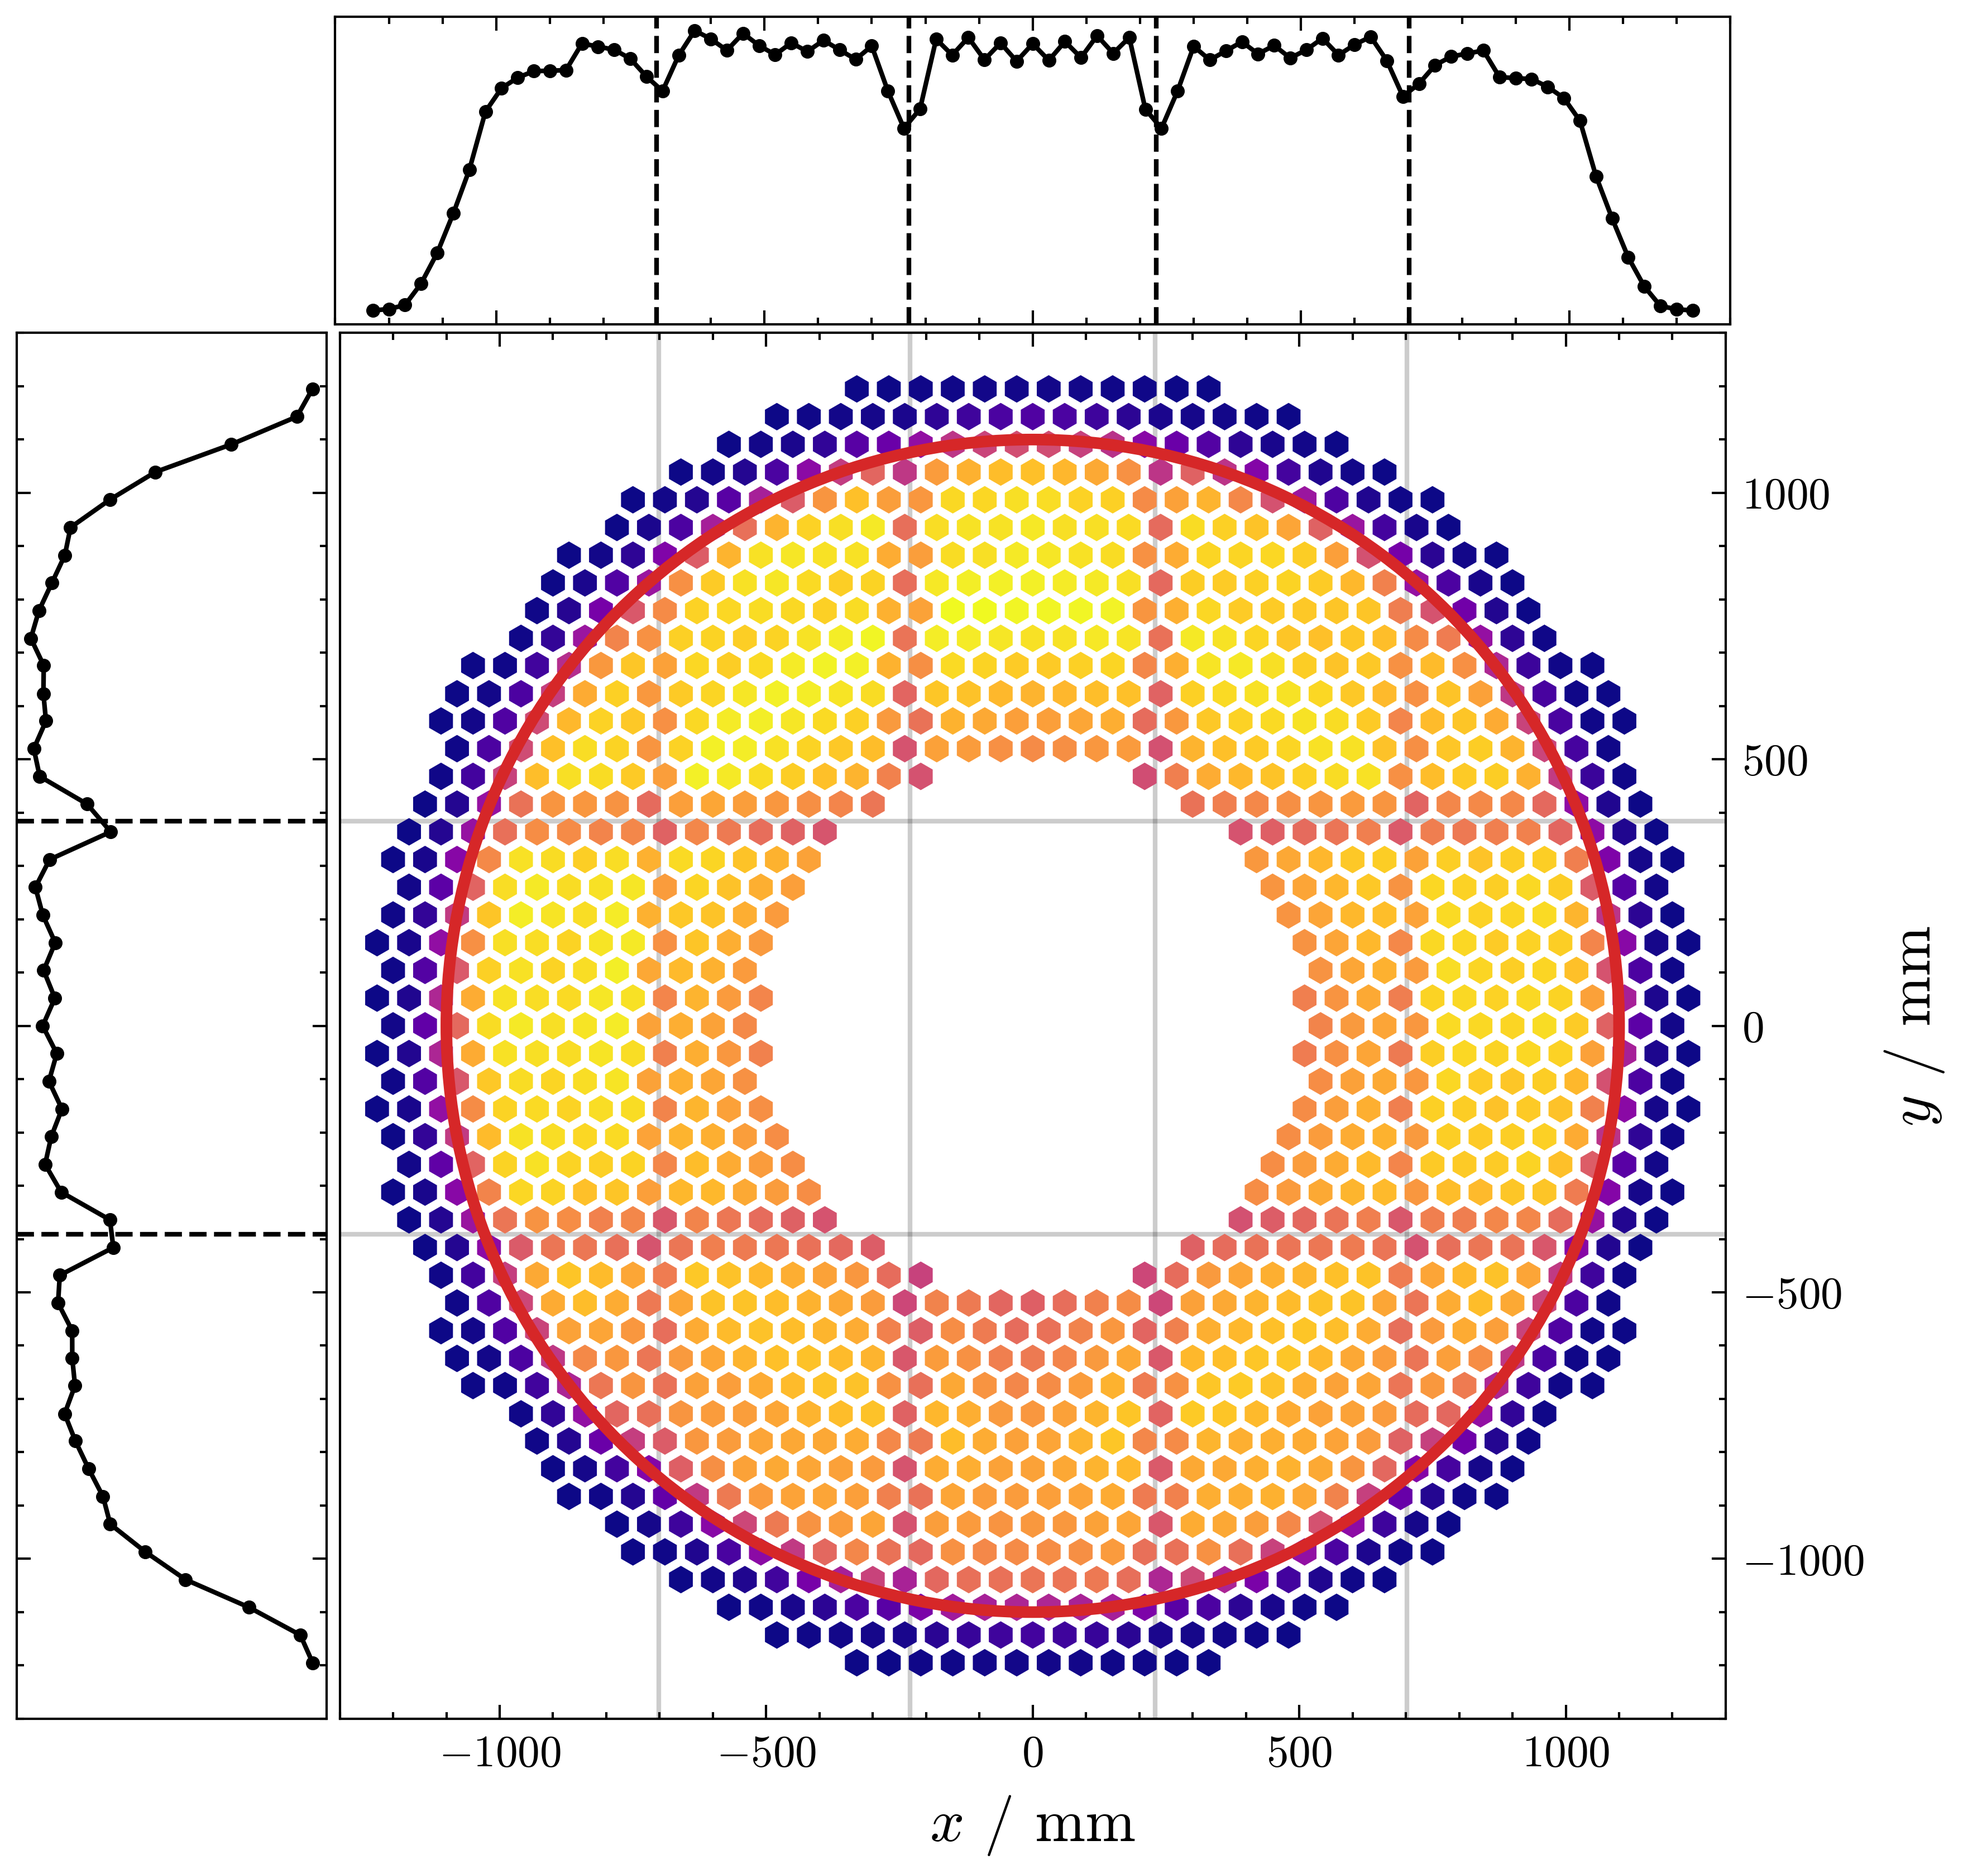
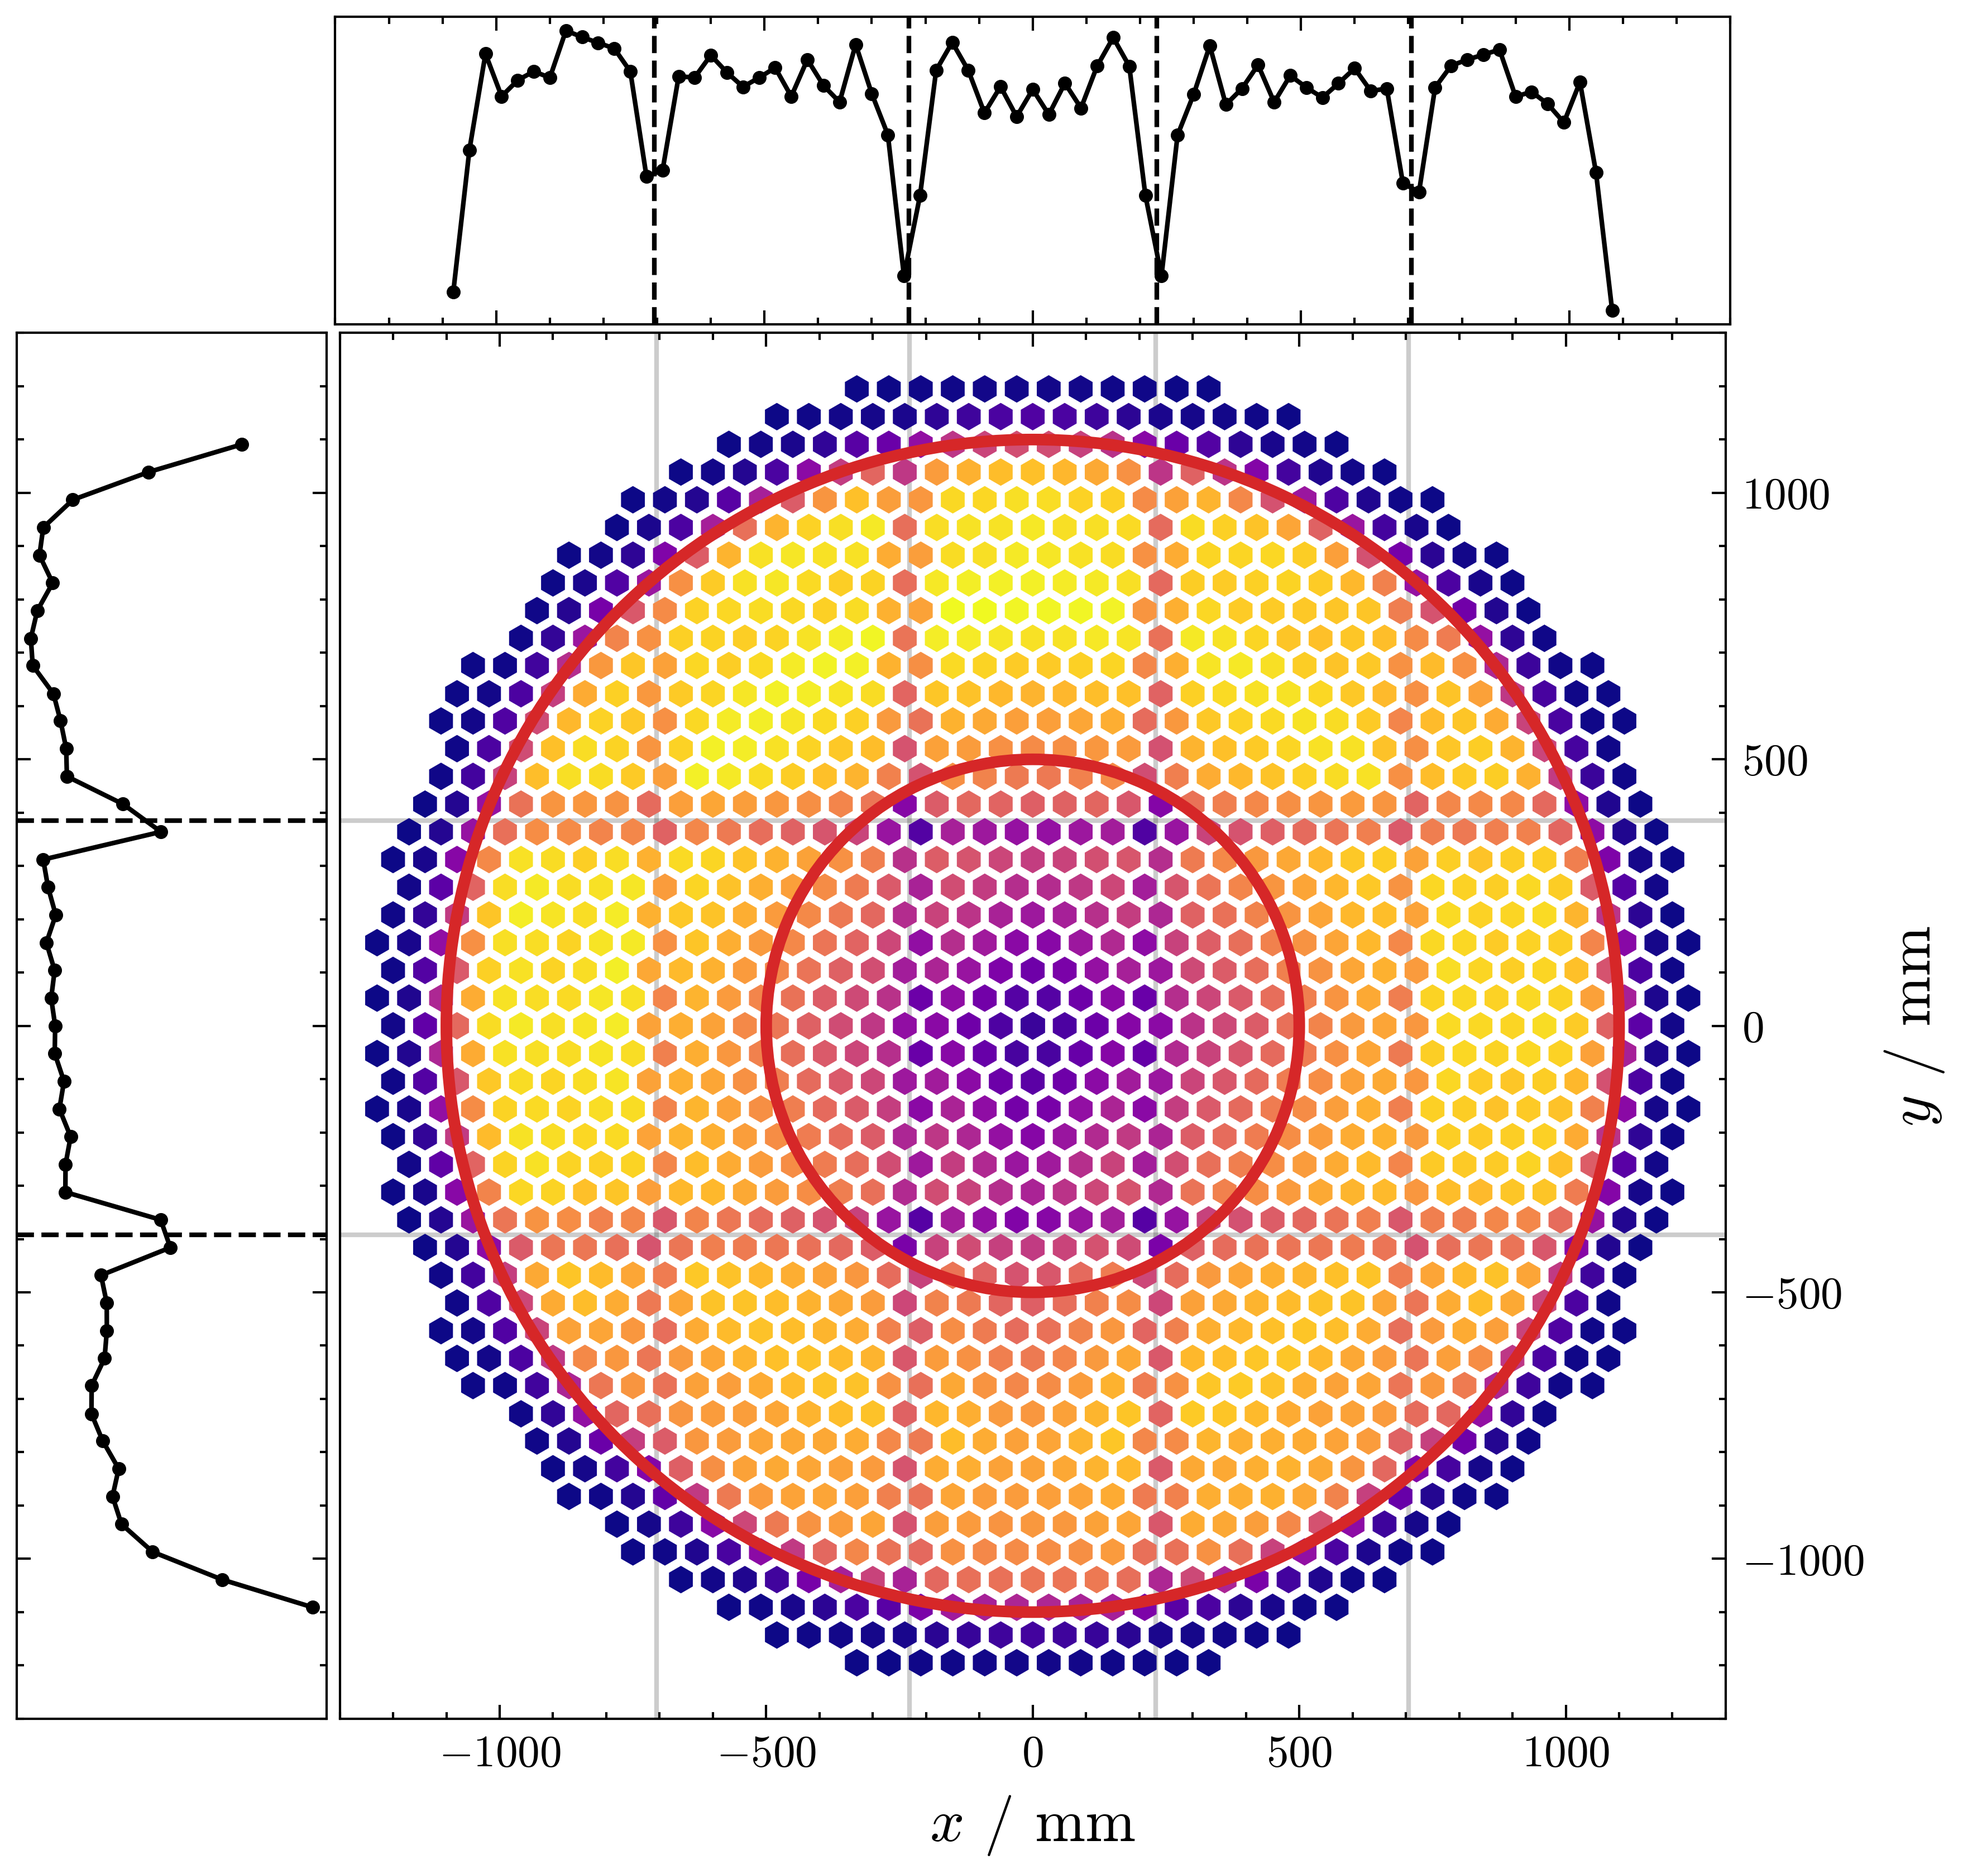
finish measurement setup

diff --git a/chap/04-XY-scanner.tex b/chap/04-XY-scanner.tex
@@ -426,6 +426,7 @@ e.g.~misaligning the \CLS with respect to the \FD, which needs to be checked
 for.
 
 \subsubsection{Positional alignment}
+\label{sssec:xy-qa-filter-estimation}
 
 We first check that the coordinate system of the XY-Scanner is correctly set,
 meaning that $(0, 0)$ coincides with the center of the \FD aperture. Flasher 
@@ -433,7 +434,29 @@ positions are defined relative to this origin, implying that a misalignment
 between the two reference points will result in an improperly illuminated 
 aperture, and bias calibration results.
 
-adada
+Examining \cref{fig:filter-structure-real}, we note that the \UV filter of every
+\FD telescope is segmented by a symmetric (around the center of the aperture) 
+support structure. This support structure blocks a measureable quantity of light
+during XY-Scans, and can be used to estimate the position of the XY-Scanner 
+relative to the \FD filter.
+
+We identify the shadow of the filter structure by first grouping the flasher 
+positions into rows and columns. We restrict our analysis to flasher positions 
+where $\SI{500}{\milli\meter} < r < \SI{1100}{\milli\meter}$, which is the 
+region of the aperture where the \FD mirror is only occluded by the filter 
+structure (and not by the \FD camera or aperture).
+
+Next, the average signal $\langle S \rangle$ recorded by the \FD is calculated 
+for every row and column. A first estimate of the filter arm positions follow 
+from this by searching for peaks in the negative average signal, we require the 
+peaks to have a prominence of $>\SI{7}{\percent}$ and a peak-to-peak distance of
+$>\SI{480}{\milli\meter}$.\footnote{This corresponds to passing 
+\lstinline[language=python]|\{prominence=0.07*max(-cols), distance=14\}| or 
+\lstinline[language=python]|\{prominence=0.07*max(-rows), distance=8\}| to 
+pythons \lstinline[language=python]|scipy.signal.find_peaks|
+\cite{virtanenSciPy10Fundamental2020}.} As evident in 
+\cref{fig:filter-alignment}, the found locations coincide well with the true 
+position of filter arms.
 
 \begin{figure}[t]
   \centering
@@ -443,19 +466,99 @@ adada
   \subfloat[]{\includegraphics[width=0.44\textwidth]{xy-scanner/filter_structure_real.png}
   \label{fig:filter-structure-real}
   }
-  \caption[]{\subref{fig:filter-structure-estimated}  \subref{fig:filter-structure-real} }
+  \caption[]{\subref{fig:filter-structure-estimated} Integral camera signal 
+  recorded at every flash position. The two tiny subplots give the average \FD
+  signal per column/row for flashes contained within the two red circles. 
+  \subref{fig:filter-structure-real} Example image of the \FD filter structure.
+  From \cite{horvathRequestImages2024}.}
   \label{fig:filter-alignment}
 \end{figure}
 
+Finally, because the filter structure can fall between a row/column, the exact
+$x$ and $y$ coordinates are interpolated by calculating a weighted average over
+the nearest neighbors of the peak row/column $p$:
+
+\begin{equation}
+\label{eq:filter-position}
+X = \sum\limits_{i = p-1}^{p+1} \frac{\langle S \rangle_i}{\langle S \rangle_p} \,x_i\,\bigg/\,\sum\limits_{i = p-1}^{p+1} \frac{\langle S \rangle_i}{\langle S \rangle_p},\qquad
+Y = \sum\limits_{i = p-1}^{p+1} \frac{\langle S \rangle_i}{\langle S \rangle_p} \,y_i\,\bigg/\,\sum\limits_{i = p-1}^{p+1} \frac{\langle S \rangle_i}{\langle S \rangle_p}
+\end{equation}
+
+The uncertainty on the filter position is at most of the order of the XY 
+stepsize (\SI{6}{\centi\meter}). In practice, the filter center, calculated as
+the mean position of all found filter structures, is grouped much tighter, as 
+shown in \cref{fig:cls-alignment}, and lines up with the origin of the 
+XY-Scanner coordinate system. 
+
+In order for an XY calibration to pass the positional alignment check, we 
+require the calculated filter center to lie within \SI{20}{\milli\meter} of the 
+XY origin. All but one run pass this quality check. The rejected run fails this
+quality check due to an occluded aperture, which will be investigated more
+closely in \cref{sssec:xy-qa-aperture-occlusion}.
+
+\begin{figure}[t]
+  \centering
+  \subfloat[]{\includegraphics[height=0.38\textwidth]{xy-scanner/CLS_alignment.png}
+  \label{fig:cls-alignment}
+  }\hspace{0.2cm}
+  \subfloat[]{\includegraphics[height=0.38\textwidth]{xy-scanner/curtain_block.png}
+  \label{fig:occluded-aperture}
+  }
+  \caption[]{\subref{fig:cls-alignment} Location of the filter center (blue) and
+  signal barycenter (red) for all considered XY runs. 
+  \subref{fig:occluded-aperture} Radial distribution of camera signal for all 
+  XY runs. The vertical red line signifies the edge of the \FD aperture. Runs 
+  with flashes below the horizontal red line are rejected due to aperture 
+  occlusion.}
+  \label{fig:measurement-setup-checks}
+\end{figure}
 
 \subsubsection{Directional alignment}
 
-We first check that the \CLS faces the \FD camera as intended. That is to say
+Next we ensure that the \CLS faces the \FD camera as intended. That is to say
 the plexiglass surface of the spheres exit port is parallel to the \UV-filter. 
 
-Given the Lambertian emission characteristic of the \CLS, 
+Given the Lambertian emission characteristic of the \CLS, a misaligned light
+source will overilluminate one portion of the mirror while underexposing
+other parts. This effect will be visible in the comparison of camera signal 
+corresponding to flashes at different positions of the aperture.
+
+Thus, in order to check directional alignment of the \CLS, we calculate the
+barycenter of all light flashes (weighing by the corresponding integral \FD 
+signal) and require for its $x$ coordinate to be within \SI{60}{\milli\meter} of
+the origin. We restrict this quality check to one dimension only because, due to
+the camera blocking part of the mirror from view, we do not expect a symmetric 
+distribution of signals in the $y$ direction. Moreover, given the measurement 
+setup, it is easier to misalign the \CLS on the $x$-axis, calling for special 
+care here.
+
+\cref{fig:cls-alignment} shows the distribution of signal barycenters from all 
+considered XY measurements. None of the examined runs fail this quality check.
 
 \subsubsection{Aperture Occlusion}
+\label{sssec:xy-qa-aperture-occlusion}
+
+Examining the run rejected in \cref{sssec:xy-qa-filter-estimation}, it becomes 
+apparent that the reason for rejection is the curtain being placed in the camera
+\FOV, and the filter finding algorithm mistaking the shadow left by the curtain
+as an additional filter structure. We can search for more instances of an 
+abnormally occluded aperture by examining outliers in the radial distribution of
+camera signals. 
+
+For every XY run, we normalize the camera signal of each flash to the maximum 
+camera signal recorded throughout the measurement, and bin them according to the
+radial position of the XY-Scanner at the time of recording. 
+\cref{fig:occluded-aperture} shows the histogram of this data over all 
+considered XY runs.
+
+Almost no light is received from flashing positions beyond the aperture. 
+Notably, there also exists a small fraction of flashes that are emitted within 
+view of the camera where $<\SI{10}{\percent}$ of light ends up in the \FD. In 
+these cases, we reject the run.
+
+Apart from the XY measurement with the curtain in view, an additional run is 
+identified as problematic due to the obstruction of a single flash, which the
+\FD camera did not register.
 
 \subsection{Camera Stability}
 \subsection{Reproducibility}
